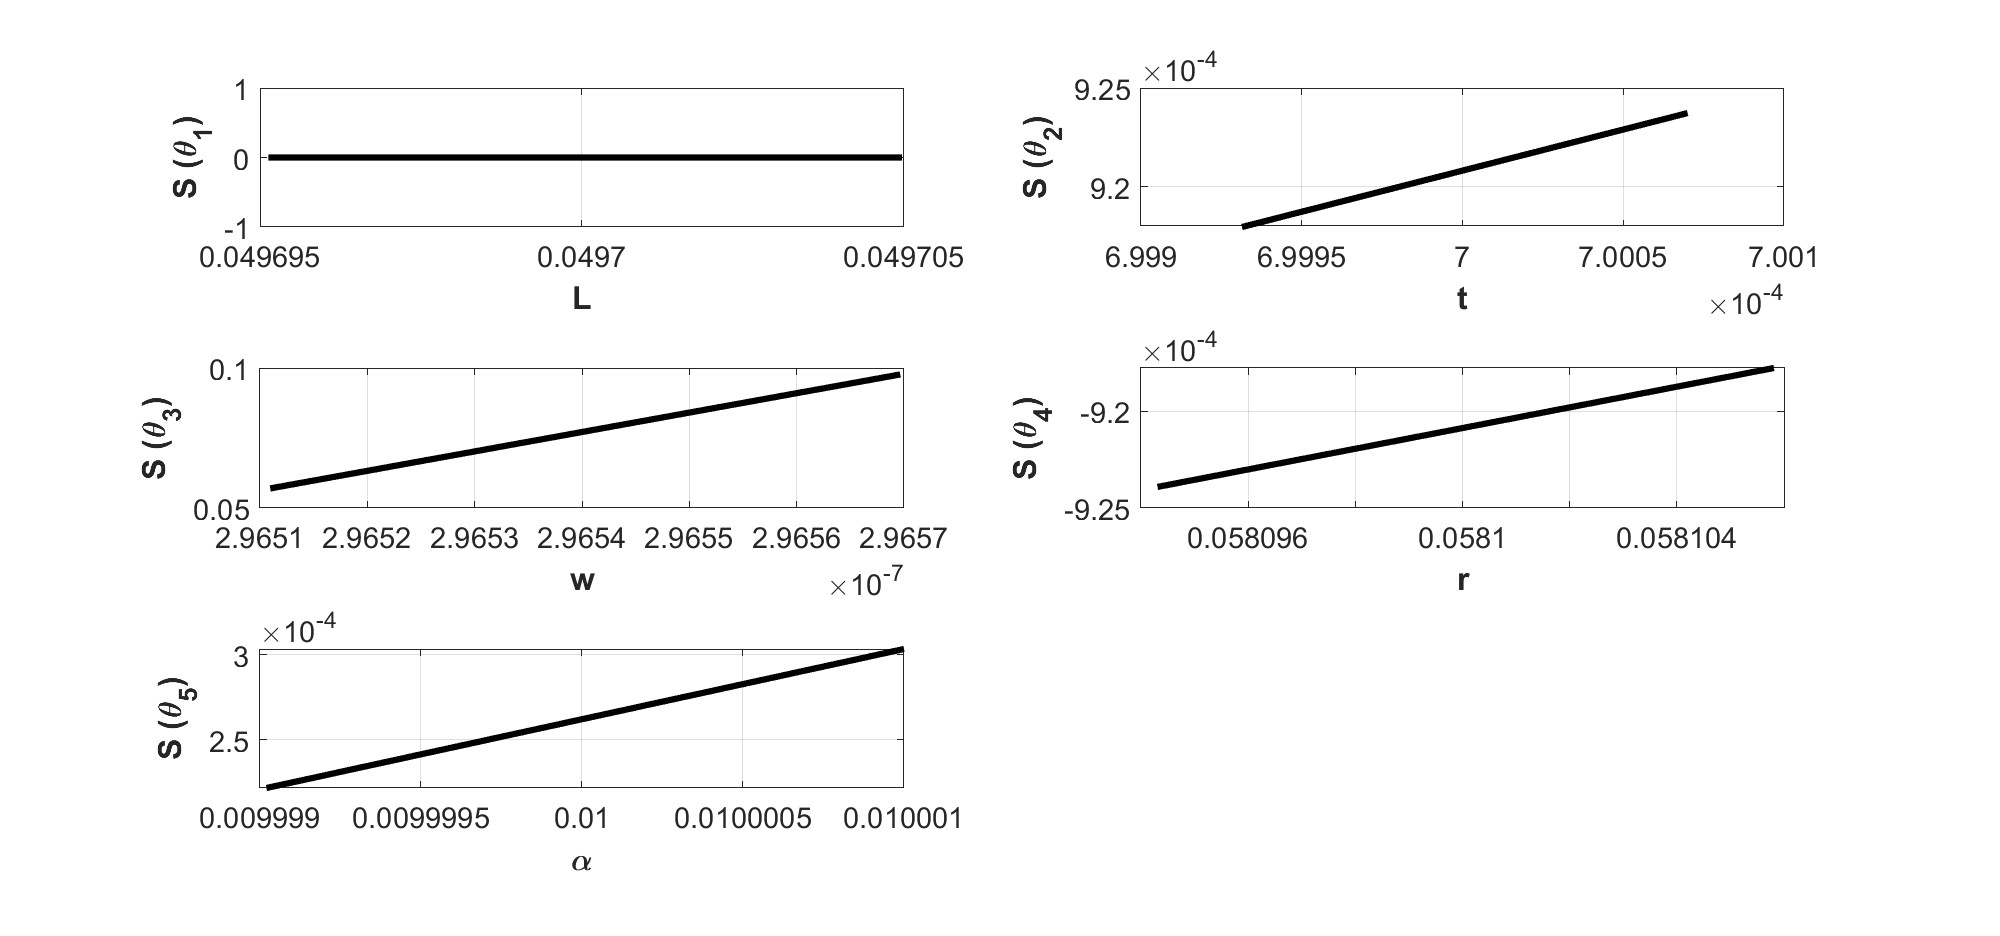
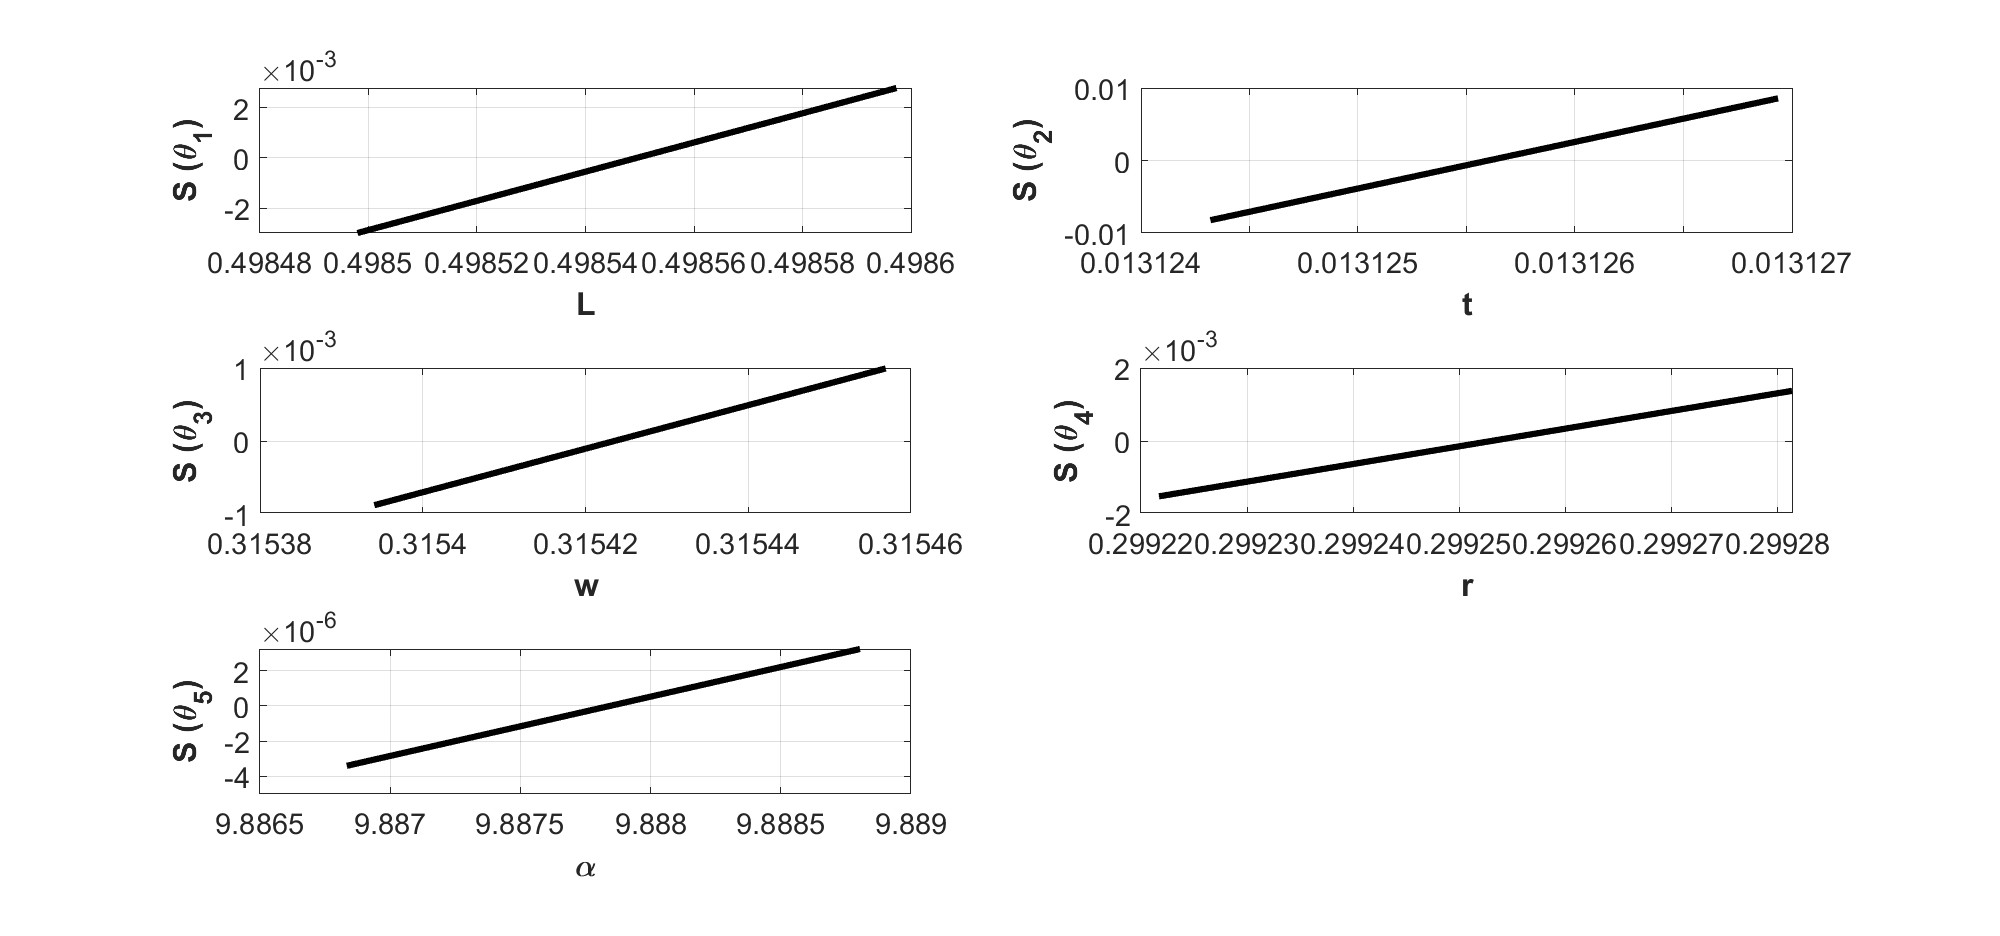
Sensitivity analysis tested and works

diff --git a/Project/src/runSensitivity.m b/Project/src/runSensitivity.m
@@ -1,9 +1,9 @@
-function runSensitivity(mass, yIdeal, tIdeal, fixedPoint)
+function runSensitivity(mass, yIdeal, tIdeal, simTime, fixedPoint)
 
     %% Begin Finite Diff
 
     delta = .0001;
-    numTestPoints = 100; % MUST BE EVEN
+    numTestPoints = 300; % MUST BE EVEN
 
     % Each row is a param, each column is a test point
     % ! Shoudl really be numTP - 1 b/c th_i duplicated

diff --git a/Project/newMain.m b/Project/newMain.m
@@ -46,4 +46,4 @@ fixedPoint(2) = t;
 fixedPoint(3) = w;
 fixedPoint(4) = r;
 fixedPoint(5) = alpha;
-runSensitivity(m, yIdeal, tIdeal, fixedPoint)
+runSensitivity(m, yIdeal, tIdeal, simTime, fixedPoint)
